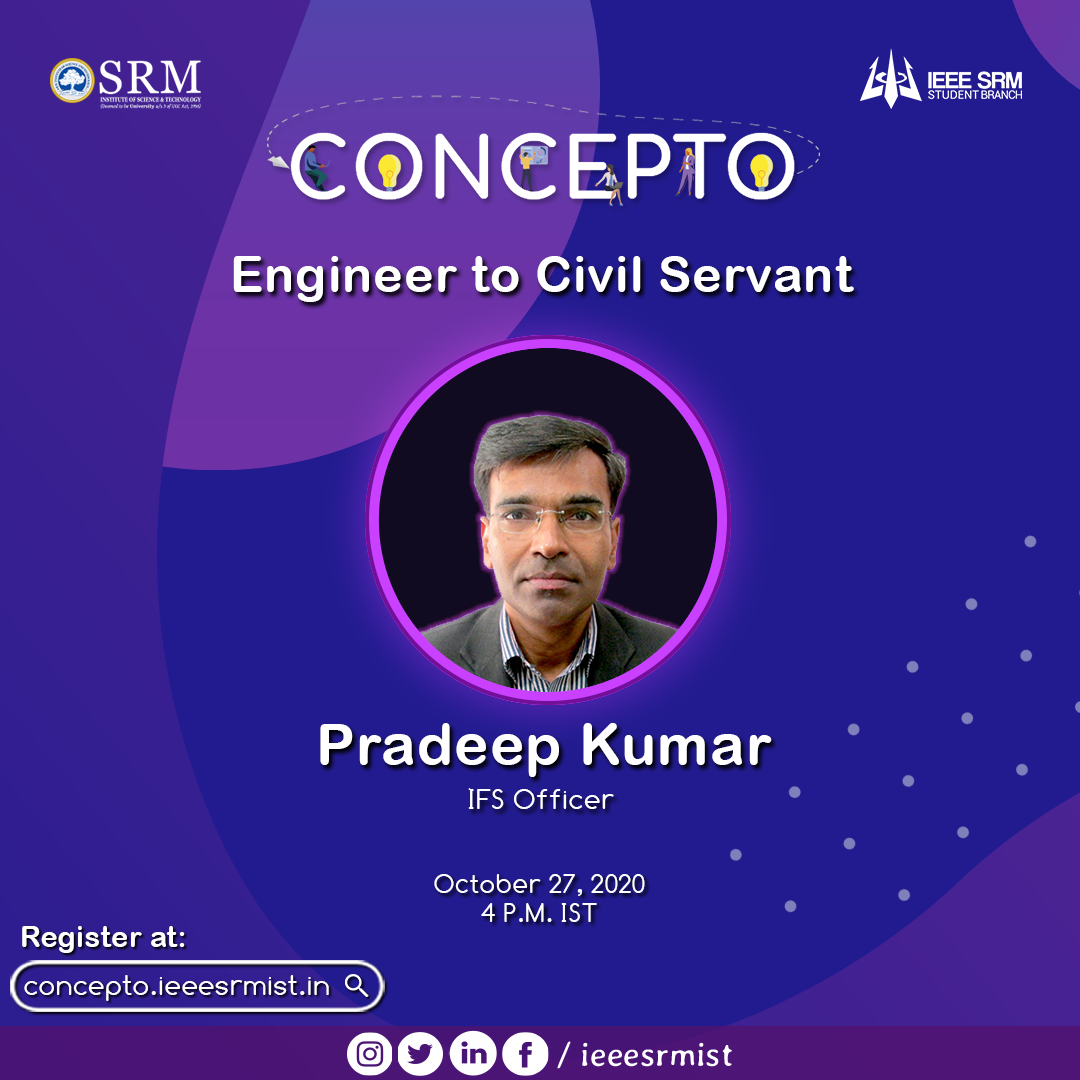
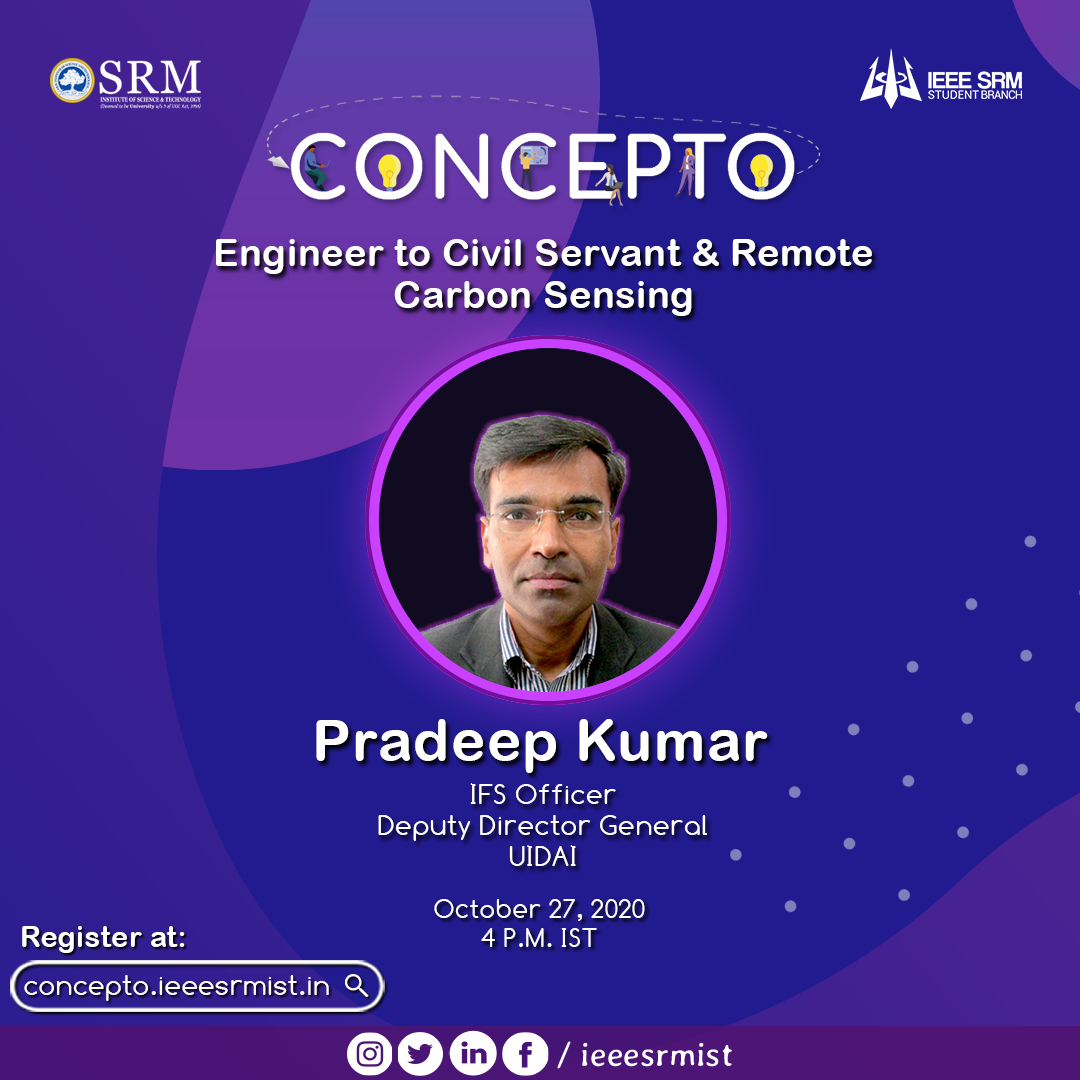
minor updates

Changed region(s): [[0.275, 0.6722, 0.7333, 0.8861], [0.1833, 0.2139, 0.825, 0.3056]]

diff --git a/src/components/events/Pradeep.js b/src/components/events/Pradeep.js
@@ -38,19 +38,24 @@ const Pradeep = () => {
             />
           </div>
           <div className="col-12 mt-5 text-center">
+            {/* Mr. Pradeep Kumar, an IIT - BHU Varanasi graduate, is currently holding the fort of Deputy Director General at Unique Identification Authority of India and is an IFS officer in the Department of Forests, Environment and Wildlife Management, Government of Sikkim. Completing professional courses from across the globe to working for the government since 1996, he has a lot of feathers in his cap of experience.
+Register now to find your passion and ignite that spark to accomplish all that you've ever dreamt of. */}
             <b>
               <i>Mr. Pradeep Kumar</i>
             </b>{" "}
-            , an IIT - BHU Varanasi graduate, is an{" "}
+            , an IIT - BHU Varanasi graduate, is{" "}
             <b>
               <i>
-                IFS officer in the Department of Forests, Environment and
-                Wildlife Management, Government of Sikkim
+                currently holding the fort of Deputy Director General at Unique
+                Identification Authority of India and is an IFS officer in the
+                Department of Forests, Environment and Wildlife Management,
+                Government of Sikkim.
               </i>
             </b>{" "}
-            . Completing professional courses from across the globe to working
-            for the government since 1996, he has a lot of feathers in his cap
-            of experience.
+            <br />
+            Completing professional courses from across the globe to working for
+            the government since 1996, he has a lot of feathers in his cap of
+            experience.
             <br />
             Register now to find your passion and ignite that spark to
             accomplish all that you've ever dreamt of.

diff --git a/src/components/events/Events.js b/src/components/events/Events.js
@@ -98,7 +98,10 @@ const Events = () => {
                     Engineer To Civil Servant
                   </h3>
                   <h4>-Pradeep Kumar</h4>
-                  <h6>IFS Officer</h6>
+                  <h6>
+                    IFS Officer and Deputy Director General at Unique
+                    Identification Authority of India
+                  </h6>
                   {
                     <div className="row">
                       <div className="col-12 text-right">

diff --git a/src/components/home/Home.js b/src/components/home/Home.js
@@ -113,7 +113,7 @@ const Home = () => {
                       <h4>Pradeep Kumar</h4>
                     </div>
                     <div className="speaker-desg">
-                      <h6>IFS Officer</h6>
+                      <h6>IFS Officer and Deputy Director General at UIDAI</h6>
                     </div>
                   </div>
                 </a>
